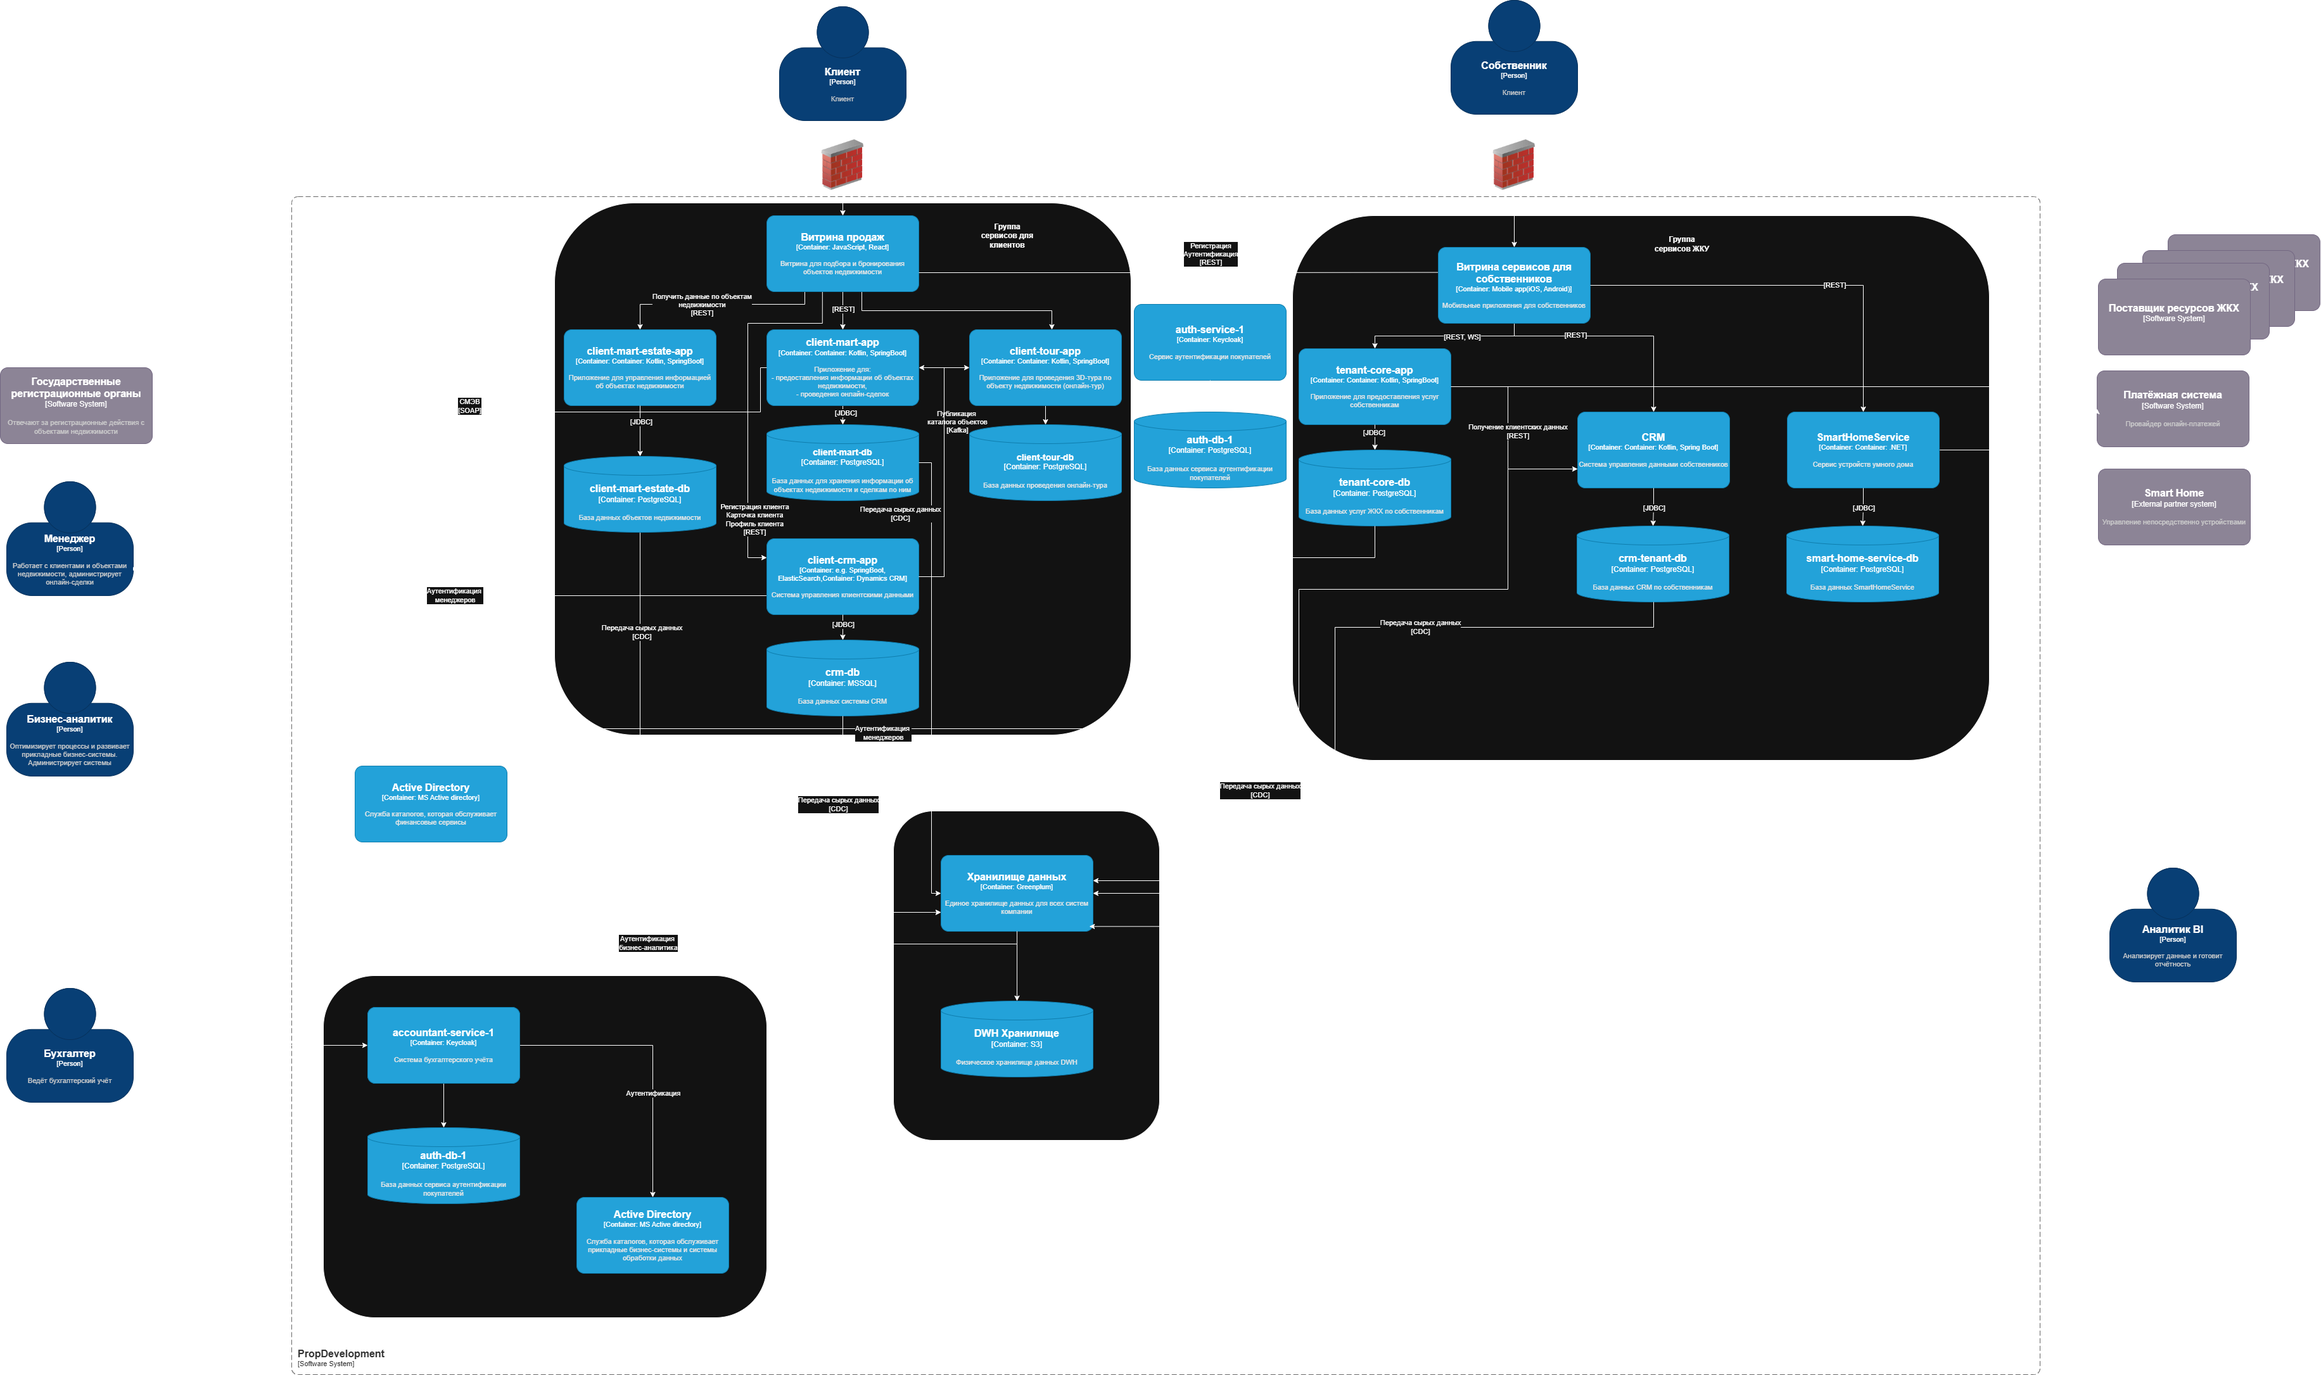
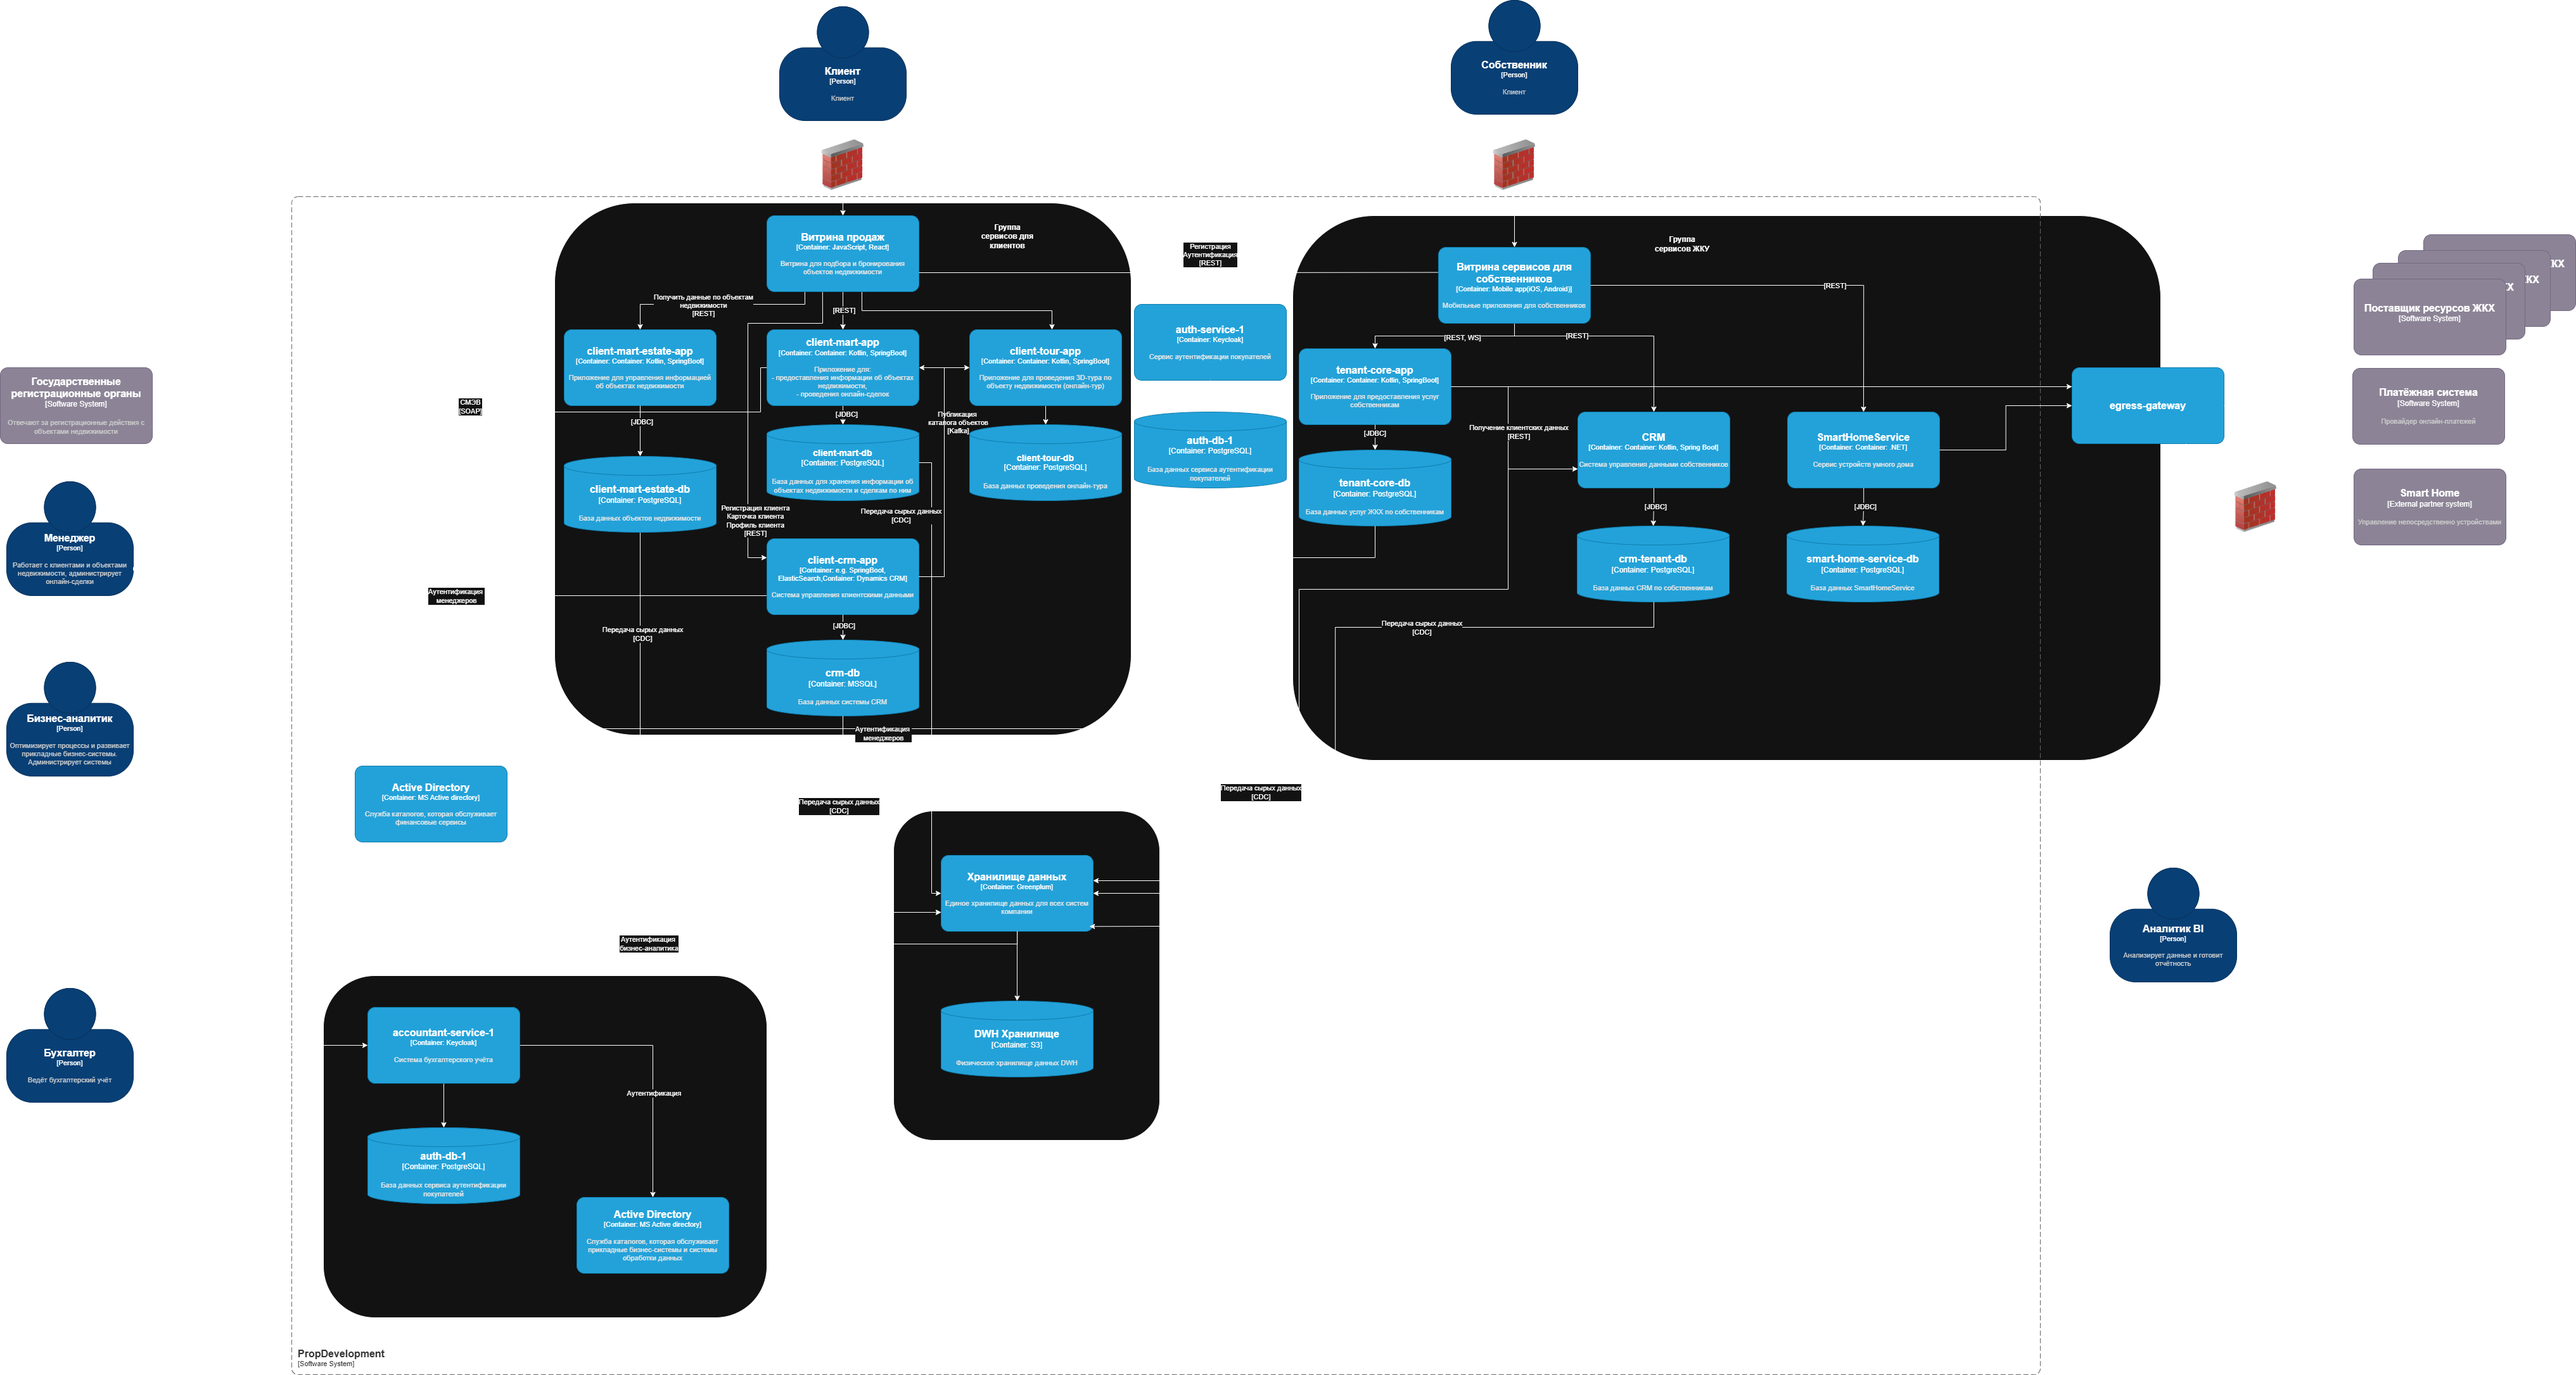
task 3 update

diff --git a/Task3/README.md b/Task3/README.md
@@ -13,3 +13,44 @@ PropDevelopment хочет расширить бизнес-функции для
 ![Containers](https://github.com/kuznechek/architecture-pro-prop_development/blob/dev/Task3/task3-containers.png)
 
 [Containers](https://github.com/kuznechek/architecture-pro-prop_development/blob/dev/Task3/task3-containers.png)
+
+## Требования безопасности для интеграции с платформой Smart Home
+
+### Требования к безопасности
+
+* Обеспечение безопасности передачи данных с помощью HTTPS с TLS 1.3
+* Firewall
+* Логирование взаимодействия между партнёрскими сервисами
+* Асинхронность операций с партнёрскими сервисами (для повышения отказоустойчивости PropDevelopment)
+* Данные о биометрии находятся в ведении партнёрского сервиса
+* При регистрации в системе каждый пользователь подписывает согласие на обработку даных
+
+### Протоколы аутентификации и авторизации
+
+### Аутентификация PropDevelopment в платформе Smart Home
+
+* OAuth 2.0
+* MFA
+* Access Token имеют фиксированное время жизни
+
+### Взаимодействие между системами предприятия и внешней платформой
+
+#### Действия пользователя в приложении :
+
+* Авторизация/регистрация пользователя в PropDevelopment
+* Меню Smart Home:
+    * Управление доступными умными устройствами
+    * Добавление нового умного устройства
+    * Удаление умного устройства
+    * Добавление новых данных в профиль (биометрия лица, в будущем: отпечатки пальцев, запись голоса и так далее)
+
+#### Физическое взаимодействие пользователя с устройствами :
+
+* Автоматическая работа шлагбаума/домофона
+    * Камера интеллектуального шлагбаума/домофона распознала лицо и передаёт данные в SmartHomeService
+    * SmartHomeService принимает решение о том, впускать ли пользователя
+    * SmartHomeService получает OAuth токен у SmartHome
+    * Формирует команду на открытие
+    * Пишет логи
+    * Открывает шлагбаум/дверь
+
